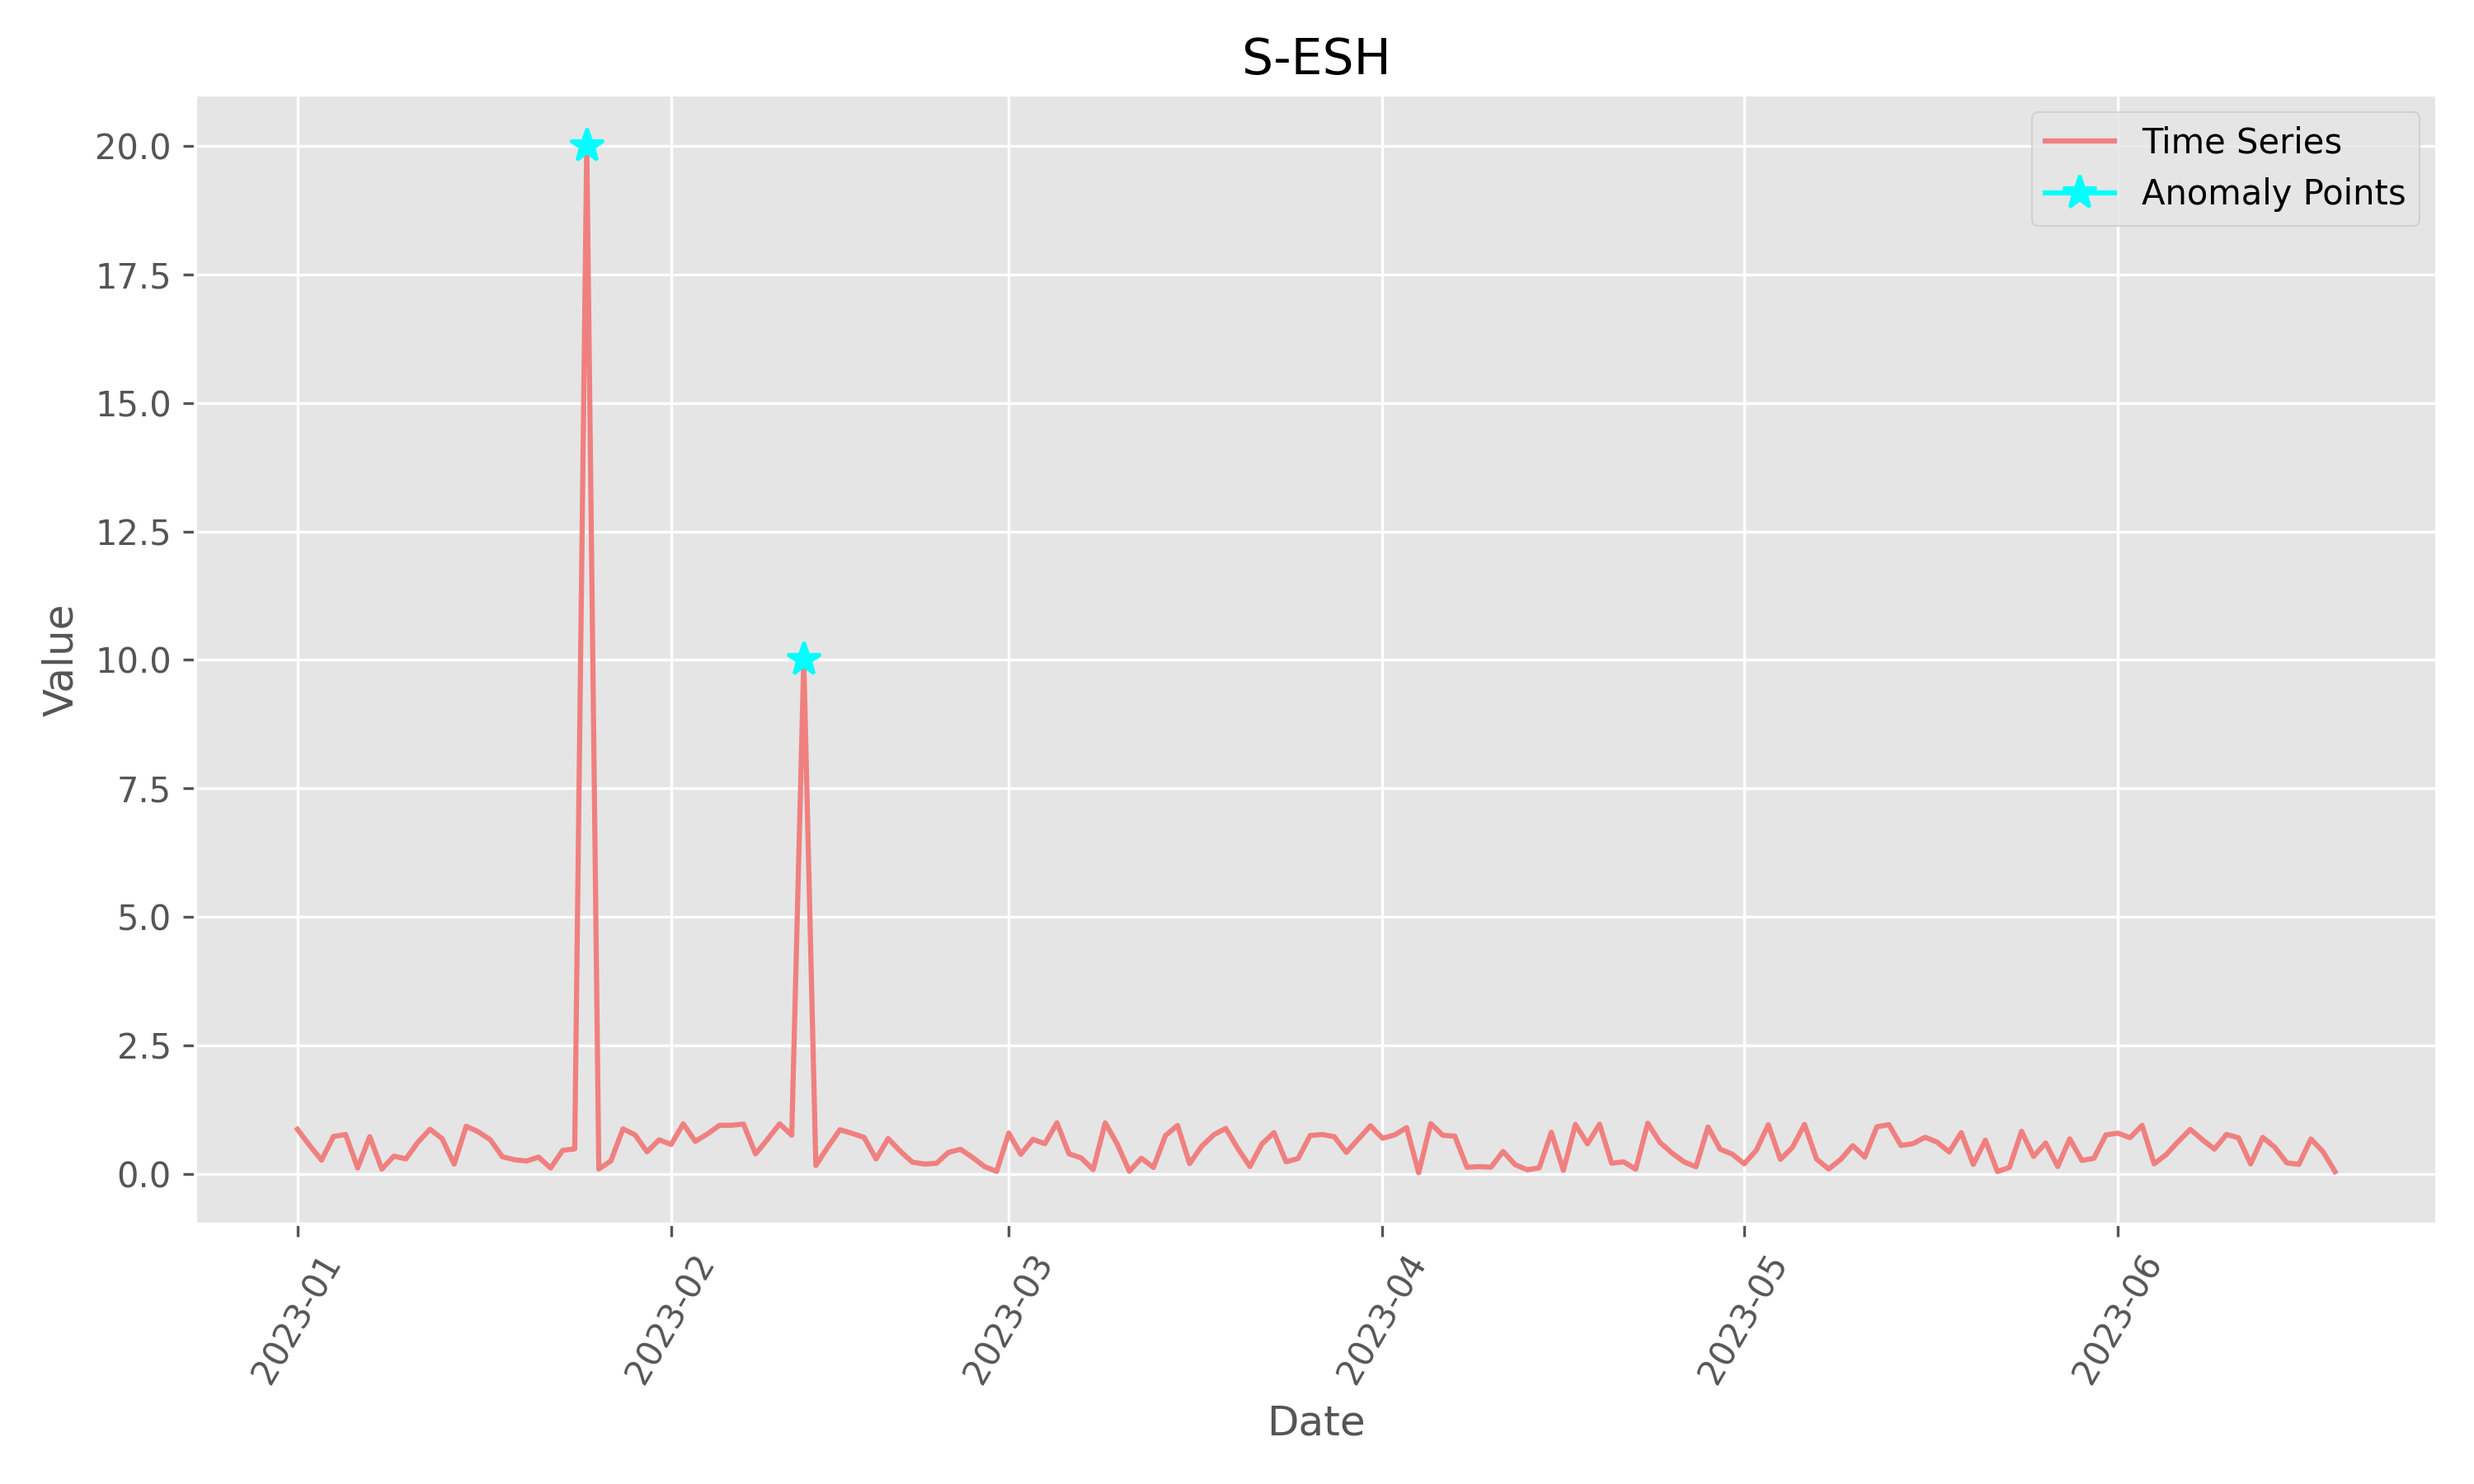
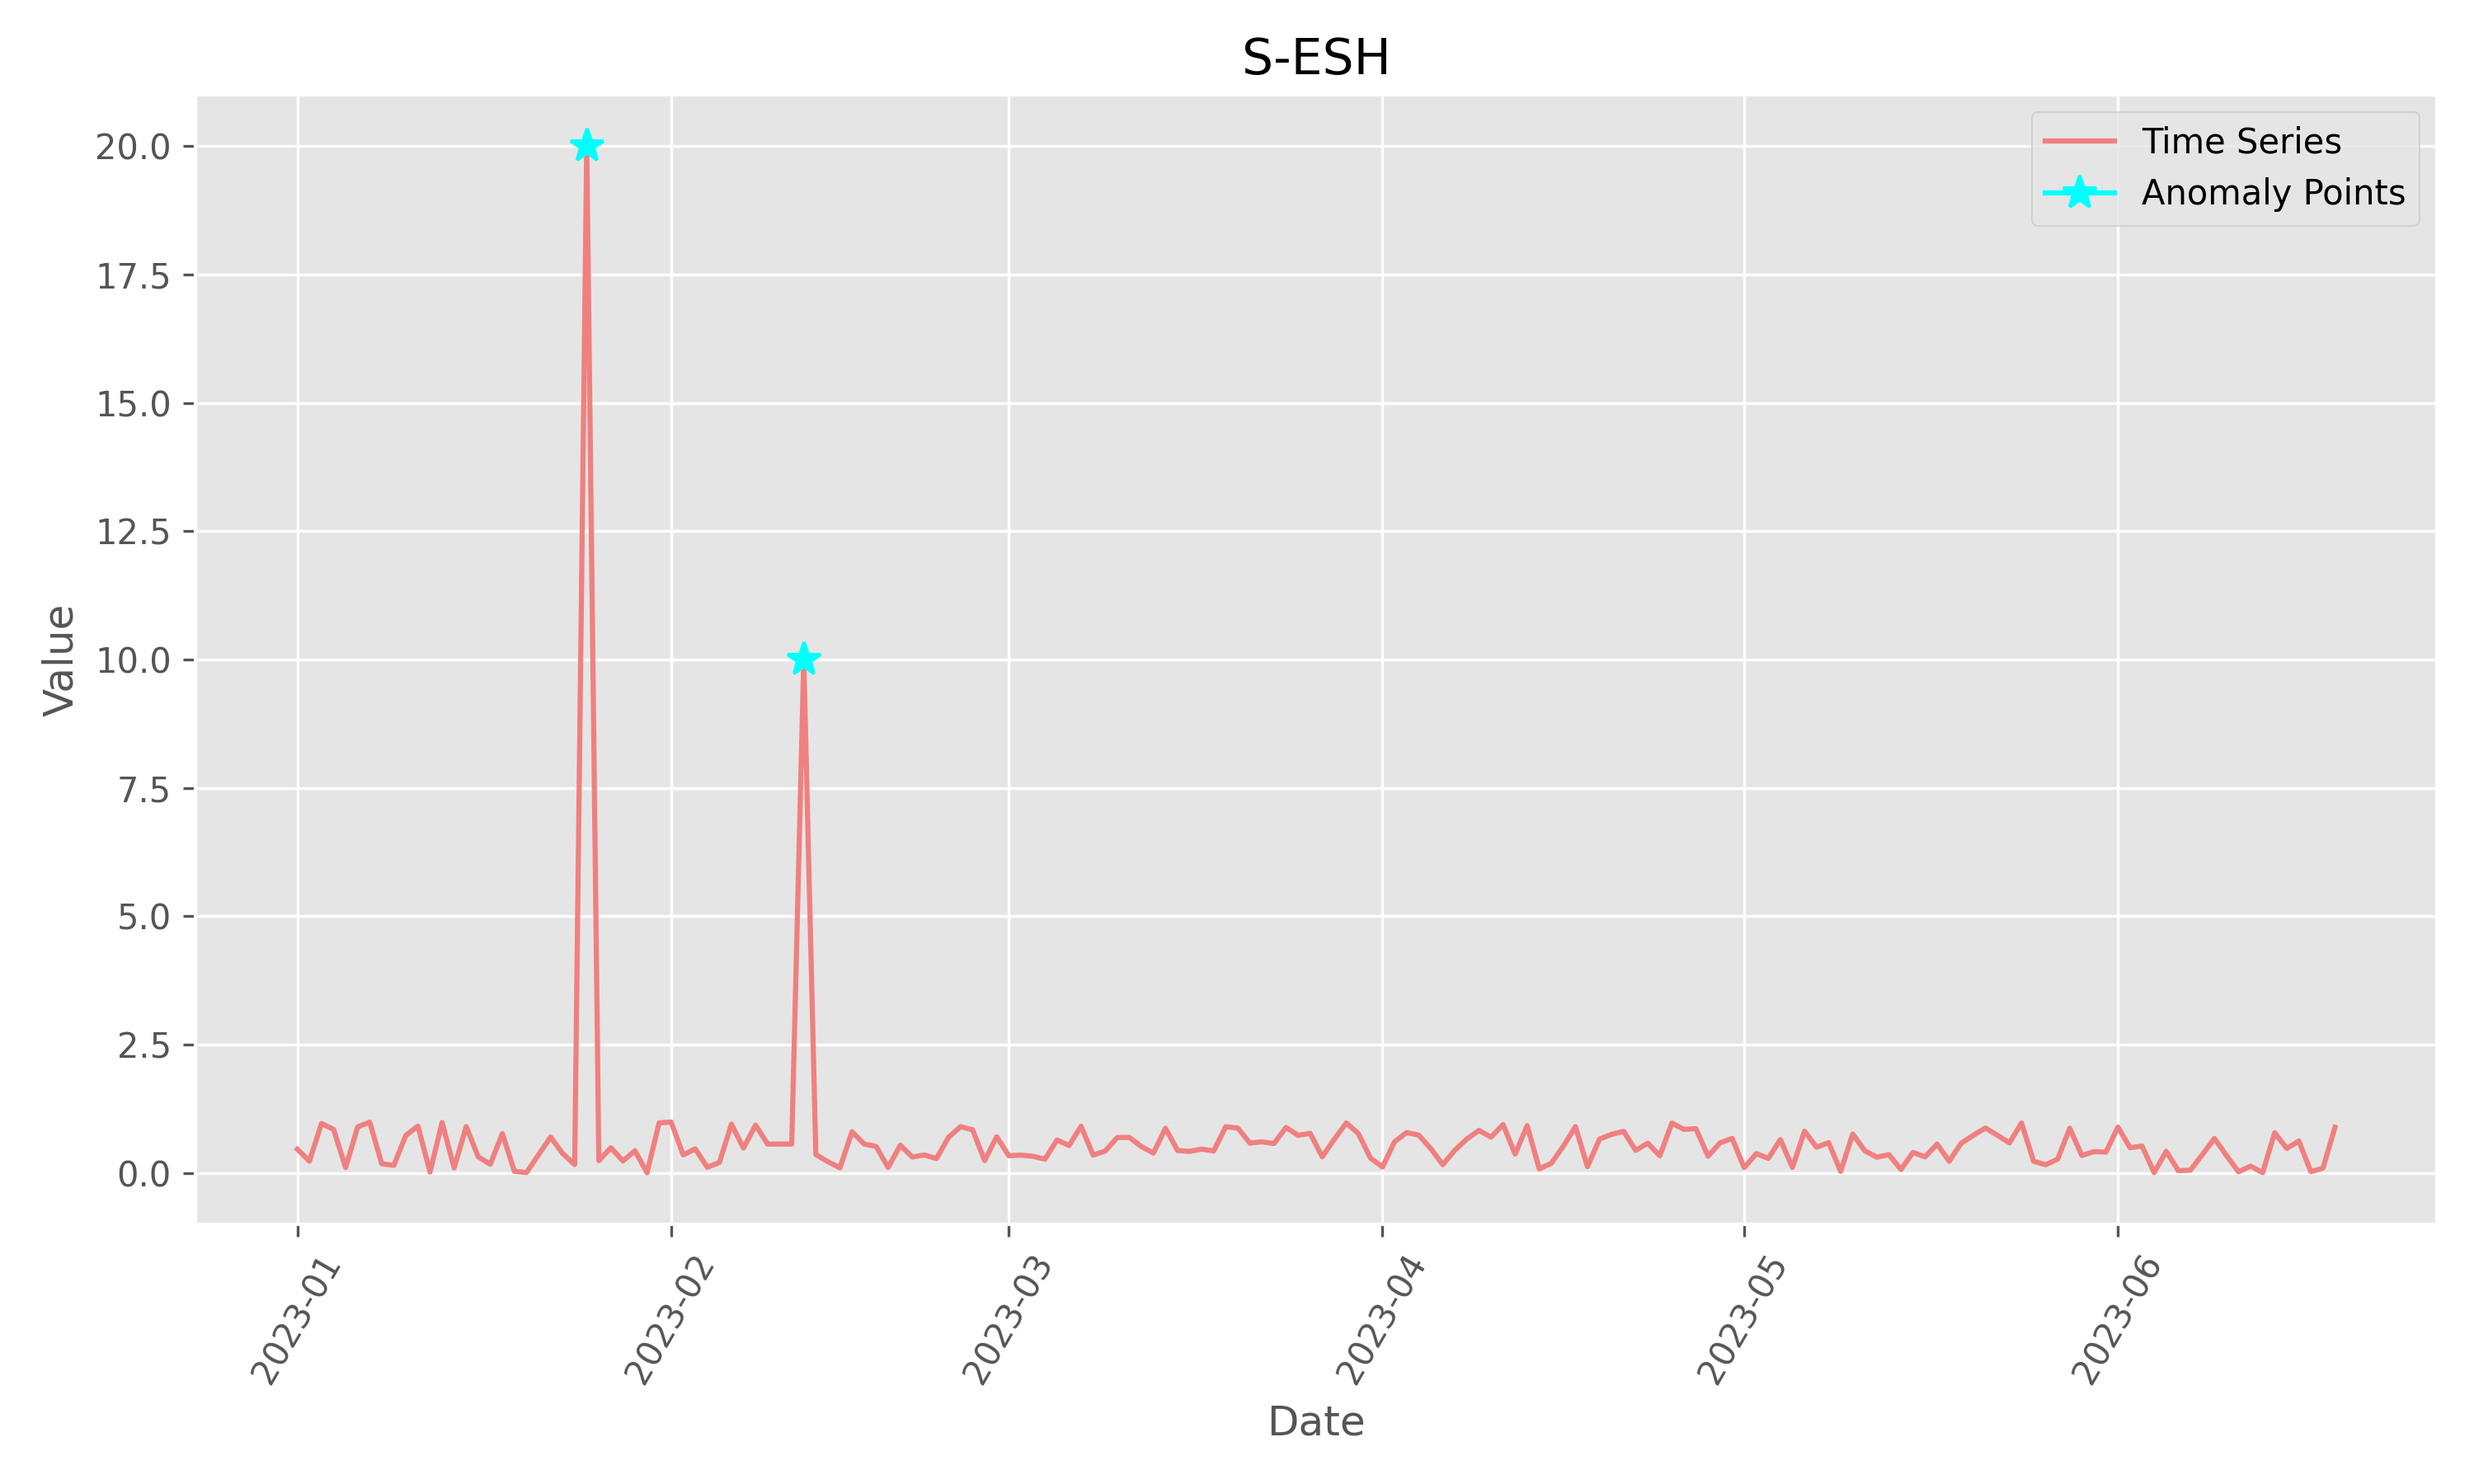
Changed:example

Changed region(s): [[0.248, 0.7467, 0.961, 0.8089], [0.124, 0.7467, 0.248, 0.8089]]

diff --git a/example/simple.py b/example/simple.py
@@ -1,22 +1,5 @@
-import numpy as np
-import pandas as pd
-
+from pysesd.dataset import load_synthetic_ts
 from pysesd.sesd import SESD
-
-
-def get_ts():
-    """
-    The get_ts function creates a random time series with two outliers.
-
-    :return: A time series
-    """
-    dates = pd.date_range(start="2023-01-01", end="2023-06-19", freq="D")
-    values = np.random.random(len(dates))
-    values[42] = 10
-    values[24] = 20
-
-    ts = pd.Series(data=values, index=dates)
-    return ts
 
 
 def run():
@@ -27,11 +10,11 @@ def run():
 
     :return: The list of outliers
     """
-    ts = get_ts()
+    ts = load_synthetic_ts()
     sesd = SESD(alpha=0.05, hybrid=False, max_outliers=2)
     outliers = sesd.fit(ts)
-    print(f"Got {len(outliers)} in {len(ts)} points, anomaly index: {outliers}")
     sesd.plot(save=True, fig_dir="../figures", fig_name="simple.png")
+    print(f"Got {len(outliers)} in {len(ts)} points, anomaly index: {outliers}")
 
 
 if __name__ == "__main__":

diff --git a/example/twitter.py b/example/twitter.py
@@ -1,22 +1,5 @@
-import pandas as pd
-
+from pysesd.dataset import load_twitter_ts
 from pysesd.sesd import SESD
-
-
-def get_ts():
-    """
-    The get_ts function creates a random time series with two outliers.
-
-    :return: A time series
-    """
-    ts = pd.read_csv(
-        "../dataset/twitter_raw_data.csv",
-        parse_dates=["timestamp"],
-        index_col=["timestamp"],
-    )
-    ts = ts.iloc[:, 0]
-    ts.index = pd.DatetimeIndex(ts.index)
-    return ts
 
 
 def run():
@@ -26,11 +9,11 @@ def run():
 
     :return: The list of outliers
     """
-    ts = get_ts()
+    ts = load_twitter_ts()
     sesd = SESD(alpha=0.05, hybrid=True, max_outliers=int(len(ts) * 0.02))
     outliers = sesd.fit(ts)
-    print(f"Got {len(outliers)} in {len(ts)} points, anomaly index: {outliers}")
     sesd.plot(save=True, fig_dir="../figures", fig_name="twitter.png")
+    print(f"Got {len(outliers)} in {len(ts)} points, anomaly index: {outliers}")
 
 
 if __name__ == "__main__":

diff --git a/src/pysesd/dataset.py b/src/pysesd/dataset.py
@@ -1,0 +1,33 @@
+import numpy as np
+import pandas as pd
+
+
+def load_synthetic_ts() -> pd.Series:
+    """
+    The get_ts function creates a random time series with two outliers.
+
+    :return: A time series
+    """
+    dates = pd.date_range(start="2023-01-01", end="2023-06-19", freq="D")
+    values = np.random.random(len(dates))
+    values[42] = 10
+    values[24] = 20
+
+    ts = pd.Series(data=values, index=dates)
+    return ts
+
+
+def load_twitter_ts():
+    """
+    The get_ts function creates a random time series with two outliers.
+
+    :return: A time series
+    """
+    ts = pd.read_csv(
+        "../dataset/twitter_raw_data.csv",
+        parse_dates=True,
+        index_col=["timestamp"],
+    )
+    ts = ts.iloc[:, 0]
+    ts.index = pd.DatetimeIndex(ts.index)
+    return ts
